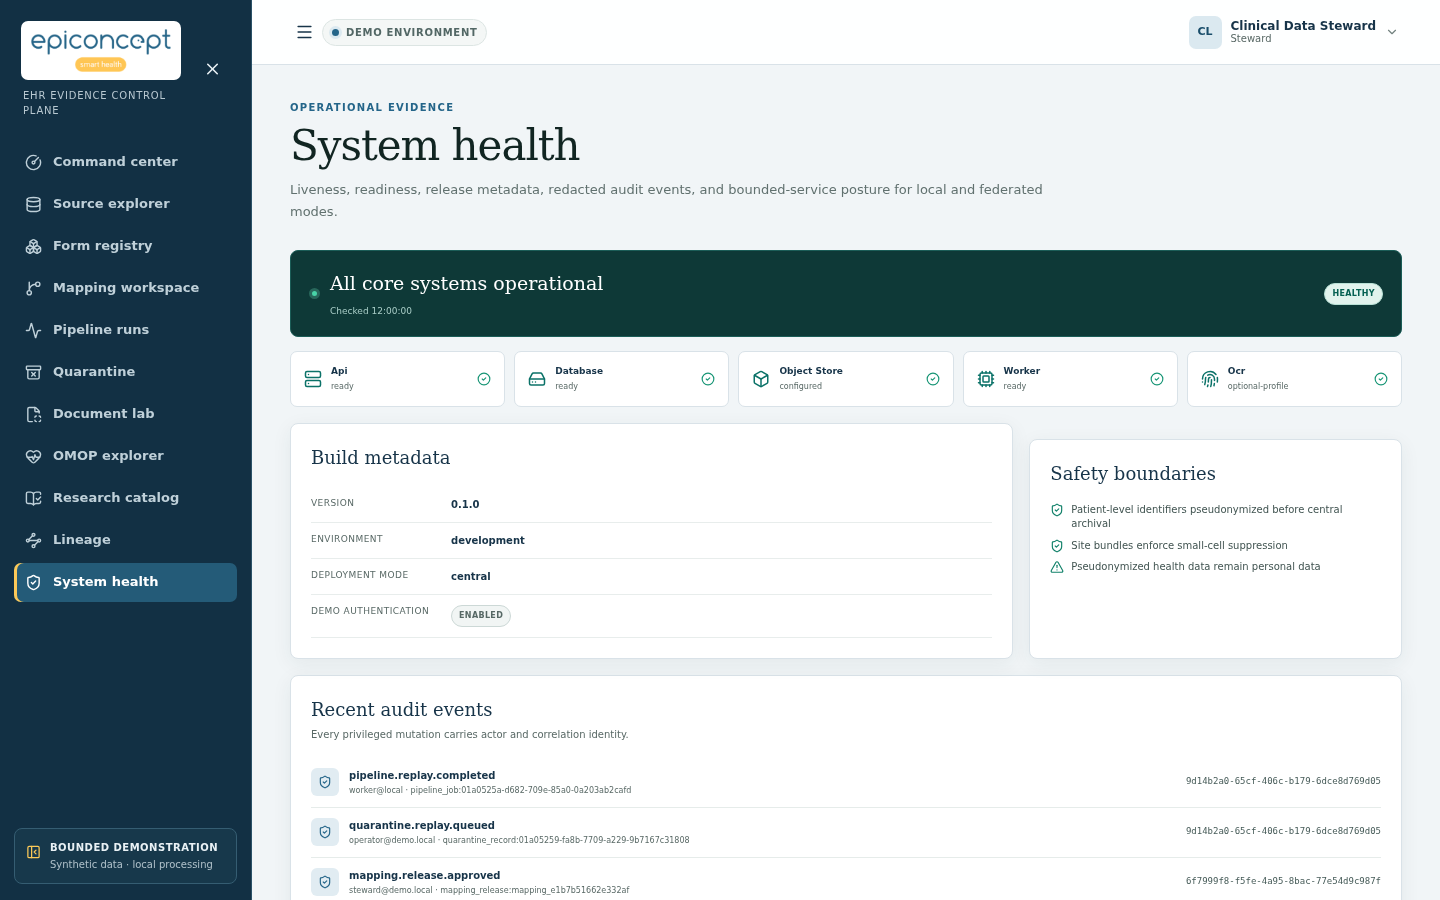
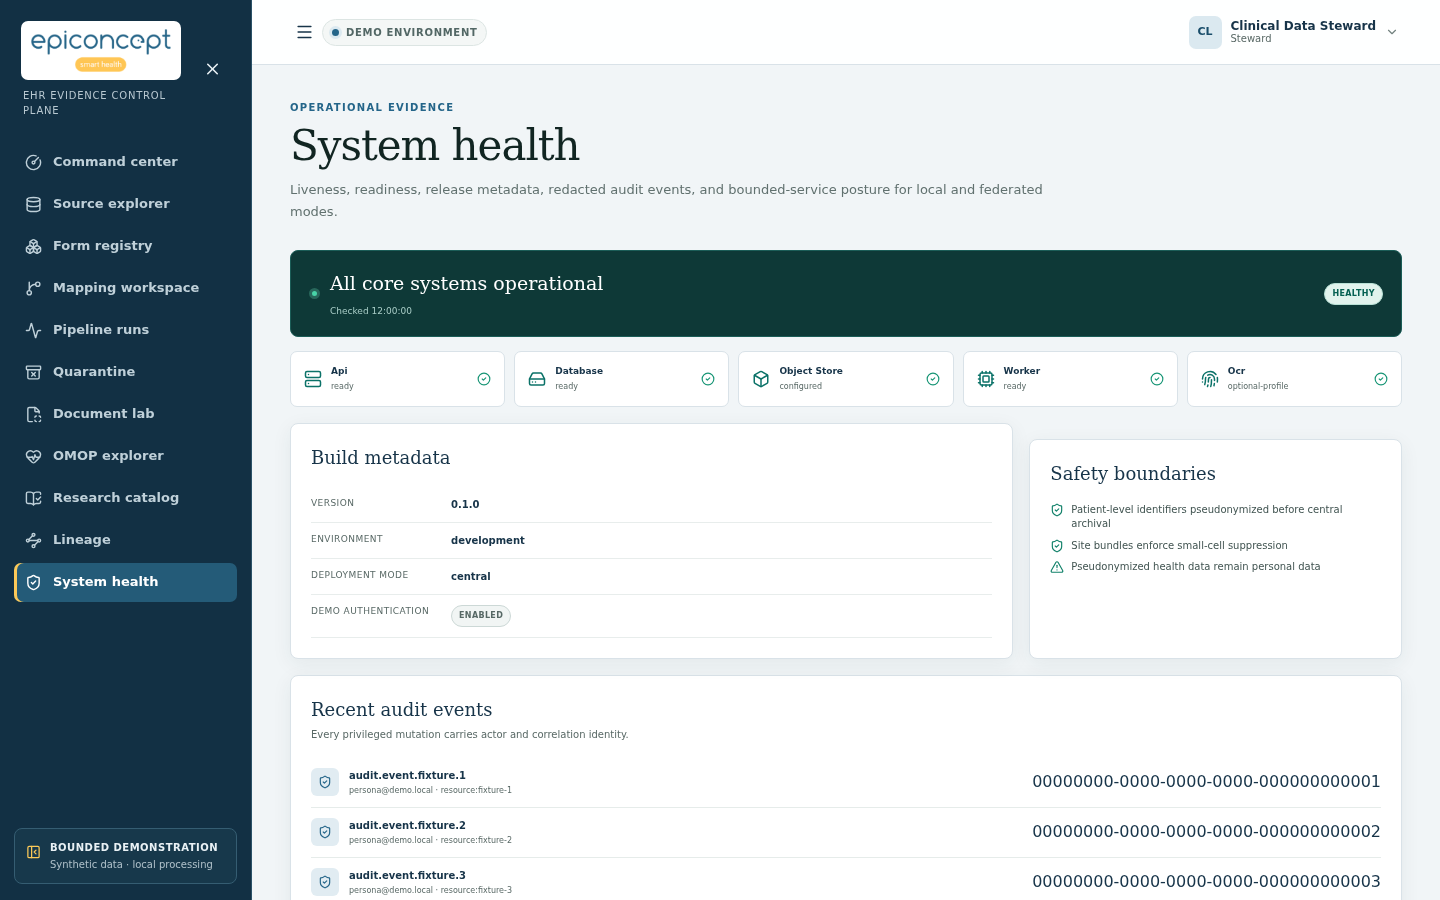
fix: normalize operational screenshot evidence

diff --git a/apps/web/e2e/screenshots.spec.ts b/apps/web/e2e/screenshots.spec.ts
@@ -31,6 +31,25 @@ for (const [route, slug] of routes) {
       await page.getByTestId("health-check-time").evaluate((element) => {
         element.textContent = "Checked 12:00:00";
       });
+      await page
+        .getByTestId("audit-resource-identity")
+        .evaluateAll((elements) => {
+          elements.forEach((element, index) => {
+            element.textContent = `persona@demo.local · resource:fixture-${index + 1}`;
+          });
+        });
+      await page.getByTestId("audit-action").evaluateAll((elements) => {
+        elements.forEach((element, index) => {
+          element.textContent = `audit.event.fixture.${index + 1}`;
+        });
+      });
+      await page
+        .getByTestId("audit-correlation-identity")
+        .evaluateAll((elements) => {
+          elements.forEach((element, index) => {
+            element.textContent = `00000000-0000-0000-0000-${String(index + 1).padStart(12, "0")}`;
+          });
+        });
     }
     const overflows = await page.evaluate(
       () => document.documentElement.scrollWidth > window.innerWidth,

diff --git a/apps/web/src/pages/Research.tsx b/apps/web/src/pages/Research.tsx
@@ -570,12 +570,14 @@ export function HealthPage() {
                 <ShieldCheck />
               </span>
               <div>
-                <strong>{event.action}</strong>
-                <small>
+                <strong data-testid="audit-action">{event.action}</strong>
+                <small data-testid="audit-resource-identity">
                   {event.actor_id} · {event.resource_type}:{event.resource_id}
                 </small>
               </div>
-              <Mono>{event.correlation_id}</Mono>
+              <span data-testid="audit-correlation-identity">
+                <Mono>{event.correlation_id}</Mono>
+              </span>
             </div>
           ))}
         </div>

diff --git a/docs/testing.md b/docs/testing.md
@@ -19,7 +19,9 @@ under `docs/benchmarks/` identify the exact environment and command.
 
 Browser acceptance writes diagnostic captures to Playwright's ignored test-output directory.
 Only `make screenshots` resets the synthetic demo and regenerates the reviewed gallery under
-`docs/assets/generated/`, so an ordinary `make ci` never rewrites committed visual assets.
+`docs/assets/generated/`, so an ordinary `make ci` never rewrites committed visual assets. The
+health capture keeps the live response but normalizes its timestamp and operational identifiers
+after rendering; production UI and API responses remain unchanged.
 
 ## Scenario matrix
 
